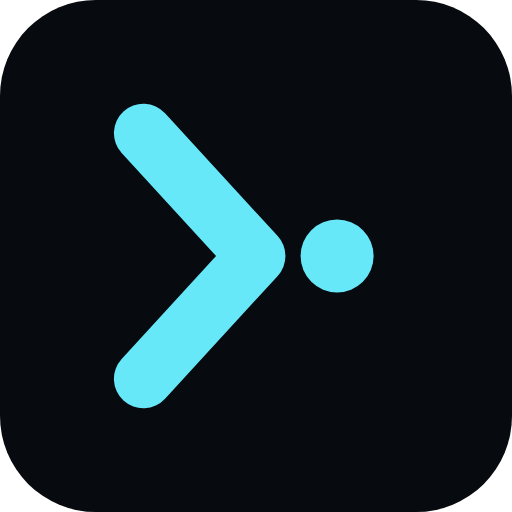
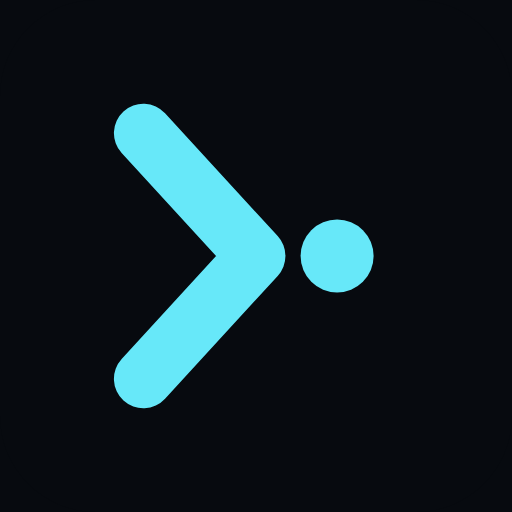
fix: close the four blocking install-to-home-screen review findings
- status bar: black-translucent -> black, so content stops rendering
  under the iOS status bar (no safe-area handling exists in this app)
- subscribe(): guard a falsy registration explicitly instead of letting
  it hang forever on navigator.serviceWorker.ready; registerServiceWorker()'s
  own swallow-on-failure is unchanged
- make-icons.js: paint the render page's body with the app ground color
  so the four rounded icon corners stop showing through as white
- pwa.spec.js: assert the notification-permission spy was actually
  installed before trusting that it was never called
- push.test.js: cover subscribe()'s undefined-registration hang and its
  un-exercised default registerServiceWorker arrow

Also: drop the unspecced portrait orientation lock, keep manifest.webmanifest
off the immutable S3 cache-control, add a .catch() backstop around the
app-start service worker registration, and a trailing newline in main.jsx.

diff --git a/frontend/src/lib/push.test.js b/frontend/src/lib/push.test.js
@@ -214,6 +214,82 @@ test("subscribe waits for the registration to become active before opening a Pus
   assert.deepStrictEqual(calls, ["register", "ready", "subscribe"]);
 });
 
+test(
+  "subscribe fails fast when registerServiceWorker resolves no registration, instead of hanging on serviceWorker.ready",
+  { timeout: 2000 },
+  async () => {
+    // registerServiceWorker() (the app-start path) swallows a failed
+    // registration and resolves undefined -- correct there, since a failure
+    // must never stop the app from rendering. subscribe() must not reuse
+    // that undefined as a registration: without an explicit guard, it flows
+    // straight into waitUntilActive() (navigator.serviceWorker.ready in the
+    // real browser), which never settles for a scope with no registration.
+    // The button that calls subscribe() would then read "Notify" forever
+    // instead of landing on its error state. waitUntilActive here would hang
+    // forever if ever reached -- the surrounding { timeout: 2000 } is what
+    // turns a reintroduced version of that bug into a fast failure instead
+    // of a stalled suite.
+    withBrowserGlobals();
+    let waitCalled = false;
+    await assert.rejects(
+      () =>
+        subscribe({
+          vapidKey: "key",
+          requestPermission: () => Promise.resolve("granted"),
+          registerServiceWorker: () => Promise.resolve(undefined),
+          waitUntilActive: () => {
+            waitCalled = true;
+            return new Promise(() => {});
+          },
+        }),
+      /service worker|registration|registered/i
+    );
+    assert.strictEqual(
+      waitCalled,
+      false,
+      "must fail before ever awaiting serviceWorker.ready"
+    );
+  }
+);
+
+test(
+  "subscribe(), called with no registerServiceWorker override, drives the module's own default arrow",
+  { timeout: 2000 },
+  async () => {
+    // Every other subscribe() test injects registerServiceWorker explicitly,
+    // so none of them ever runs subscribe's default
+    // `registerServiceWorker: registerSW = () => registerServiceWorker()`.
+    // That default calls the *imported* registerServiceWorker function --
+    // if a future edit renamed it to call itself instead, this would recurse
+    // until the stack overflows or (behind a promise) hang forever. This
+    // test is the only thing that actually executes that arrow, so it is
+    // the only thing standing between a reverted rename and a 10-minute wait
+    // for the Playwright suite to notice. Other dependencies are injected,
+    // same as every other test here -- only registerServiceWorker is left
+    // to its default, which is the whole point.
+    withBrowserGlobals();
+    let registerCalled = false;
+    const fakeSub = {
+      toJSON: () => ({ endpoint: "https://push.example/default", keys: {} }),
+    };
+    const reg = { pushManager: { subscribe: () => Promise.resolve(fakeSub) } };
+    globalThis.navigator.serviceWorker.register = async () => {
+      registerCalled = true;
+      return reg;
+    };
+
+    const result = await subscribe({
+      vapidKey: toBase64Url([1, 2, 3, 4]),
+      requestPermission: () => Promise.resolve("granted"),
+      waitUntilActive: () => Promise.resolve(),
+      post: () => Promise.resolve({ ok: true }),
+    });
+
+    assert.strictEqual(registerCalled, true);
+    assert.strictEqual(result, "granted");
+  }
+);
+
 test("subscribe propagates a rejection from waitUntilActive without calling pushManager.subscribe", async () => {
   withBrowserGlobals();
   let subscribeCalled = false;

diff --git a/frontend/tests/pwa.spec.js b/frontend/tests/pwa.spec.js
@@ -60,7 +60,9 @@ test("a visitor who never asked for notifications still gets a service worker", 
   let permissionAsked = false;
   await page.addInitScript(() => {
     window.__notifAsked = false;
+    window.__notifSpyInstalled = false;
     if (window.Notification) {
+      window.__notifSpyInstalled = true;
       const real = window.Notification.requestPermission;
       window.Notification.requestPermission = (...a) => {
         window.__notifAsked = true;
@@ -78,6 +80,16 @@ test("a visitor who never asked for notifications still gets a service worker", 
   expect(scriptURL, "the registered worker must keep its apiBase query").toMatch(
     /\/sw\.js\?apiBase=/
   );
+
+  // Without this, window.__notifAsked === false proves nothing: it reads
+  // the same whether requestPermission was never called, or the spy that
+  // watches for it was never installed because window.Notification didn't
+  // exist in this browser context.
+  const spyInstalled = await page.evaluate(() => window.__notifSpyInstalled);
+  expect(
+    spyInstalled,
+    "window.Notification must exist for the spy below to mean anything"
+  ).toBe(true);
 
   permissionAsked = await page.evaluate(() => window.__notifAsked);
   expect(

diff --git a/frontend/src/lib/push.js b/frontend/src/lib/push.js
@@ -126,6 +126,17 @@ export async function subscribe({
   if (permission !== "granted") return permission;
 
   const reg = await registerSW();
+  // registerServiceWorker() swallows a failed registration and resolves
+  // undefined -- correct at app start, where a failure must never stop the
+  // app from rendering. Here, though, `undefined` would otherwise flow
+  // straight into `navigator.serviceWorker.ready` below, which never settles
+  // for a scope with no registration: the caller's await hangs forever
+  // instead of landing on the failure state it renders. Fail loudly instead.
+  if (!reg) {
+    throw new Error(
+      "Notifications need an active service worker, and none could be registered."
+    );
+  }
   // register() resolves as soon as the registration record exists -- the
   // worker itself is typically still installing, and reg.active is null
   // until it finishes activating. PushManager.subscribe() throws

diff --git a/frontend/src/main.jsx b/frontend/src/main.jsx
@@ -14,5 +14,9 @@ ReactDOM.createRoot(document.getElementById("root")).render(
 );
 
 // After render, so registration never delays first paint. Progressive
-// enhancement: this resolves quietly where service workers are unavailable.
-registerServiceWorker();
+// enhancement: this resolves quietly where service workers are unavailable --
+// registerServiceWorker() itself catches a failed registration, but that
+// try/catch doesn't start until after its default parameter is evaluated, so
+// a browser whose navigator.serviceWorker getter throws would still surface
+// here as an unhandled rejection. .catch() is the backstop for that.
+registerServiceWorker().catch(() => {});

diff --git a/frontend/index.html b/frontend/index.html
@@ -8,7 +8,7 @@
     <meta name="theme-color" content="#070A0F" />
     <link rel="apple-touch-icon" href="/apple-touch-icon.png" />
     <meta name="apple-mobile-web-app-capable" content="yes" />
-    <meta name="apple-mobile-web-app-status-bar-style" content="black-translucent" />
+    <meta name="apple-mobile-web-app-status-bar-style" content="black" />
     <meta name="apple-mobile-web-app-title" content="PerfectPick" />
     <title>PerfectPick</title>
   </head>

diff --git a/frontend/scripts/make-icons.js b/frontend/scripts/make-icons.js
@@ -52,7 +52,7 @@ async function render(browser, svgText, size, out) {
     deviceScaleFactor: 1,
   });
   await page.setContent(
-    `<body style="margin:0">${svgText.replace(
+    `<body style="margin:0;background:${GROUND}">${svgText.replace(
       /width="512" height="512"/,
       `width="${size}" height="${size}"`
     )}</body>`
